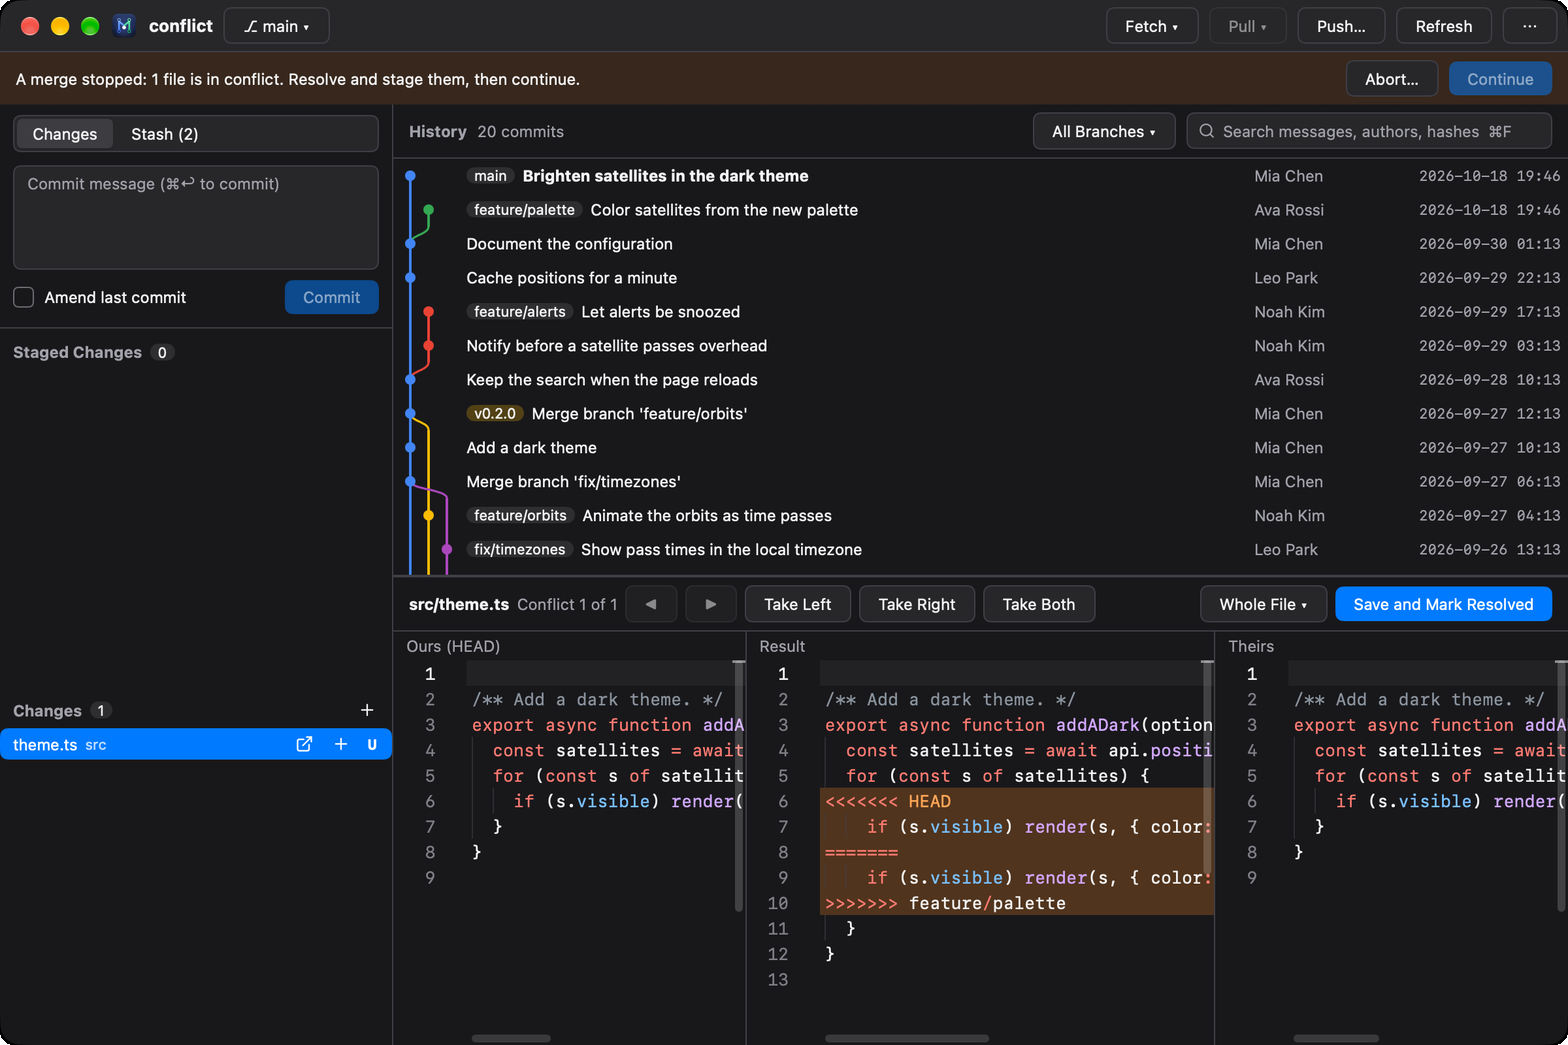
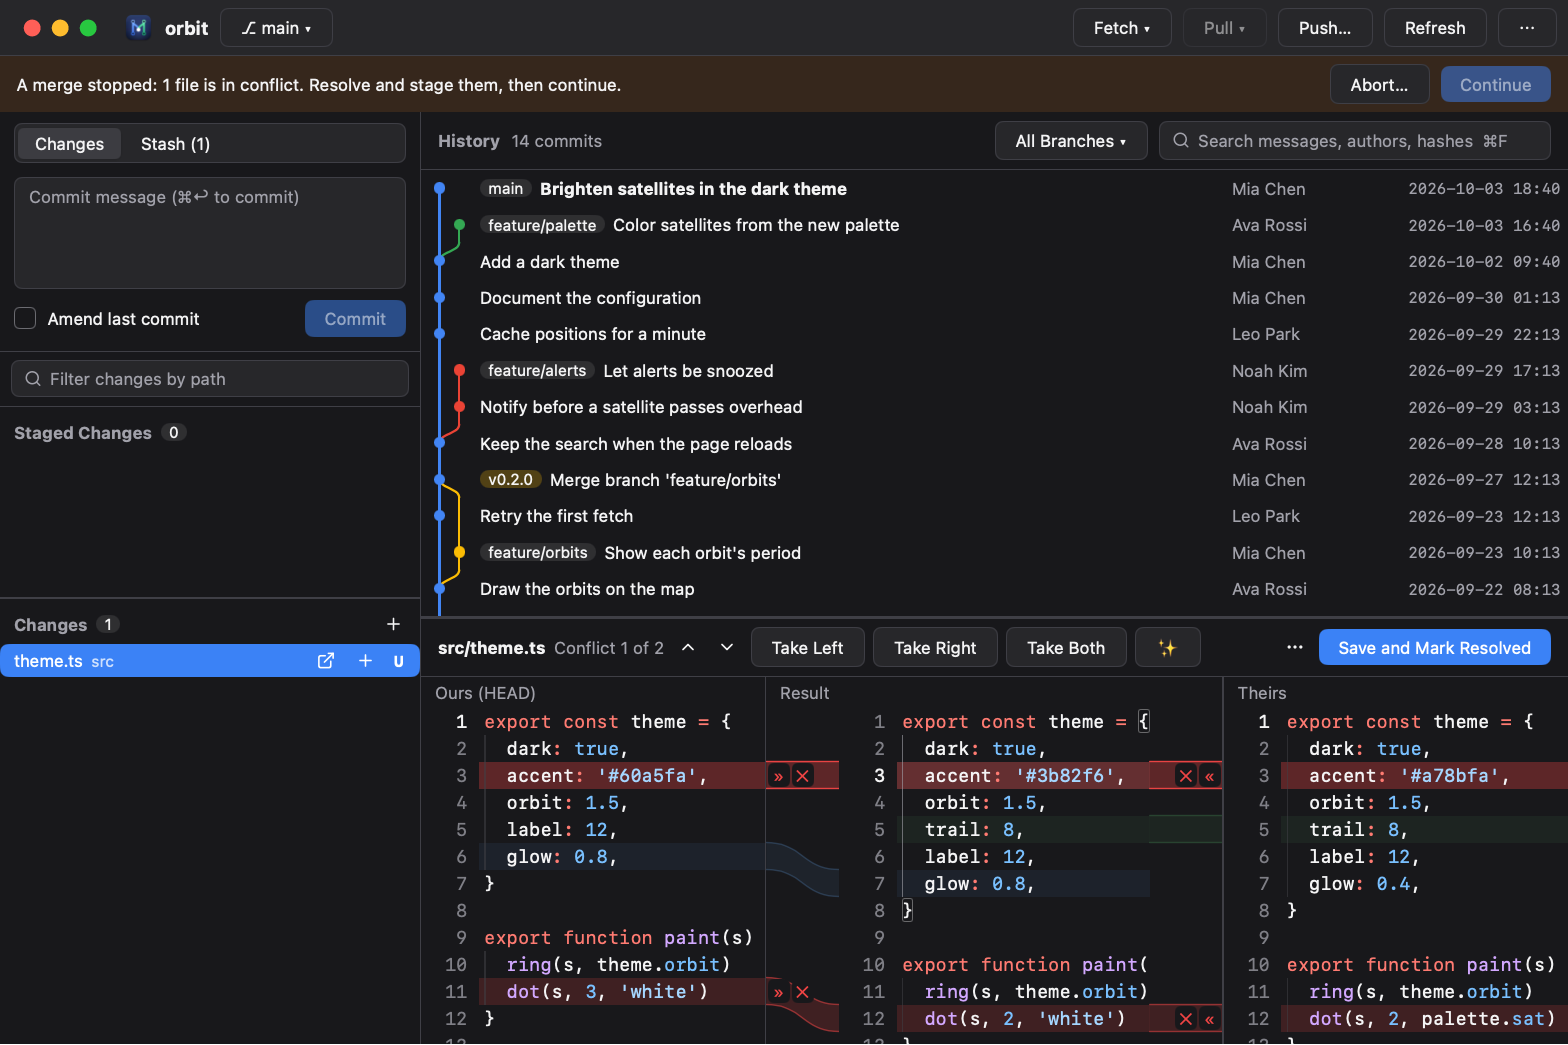
Show the new merge window in the READMEs, and fit its toolbar
The screenshots of the merge window still showed git's conflict
markers. TestDumpMerge now renders them, merge-zh.png and, with
MYGIT_LOCALE=en, merge-en.png, as the other screenshots are sized:
orbit's theme merged with a branch that changed it too, at 1120×746
and 1.4×, the traffic lights macOS draws painted where it puts them.

At that width the toolbar didn't fit: the file's name was squeezed
away, the count of conflicts wrapped and Save and Mark Resolved was cut.
The magic wand is now a ✨ button, its name in its tooltip, Whole File a
⋯ menu, and the name and the count keep their width. The sides no
longer highlight the line of a caret they don't show.

diff --git a/visual_test.go b/visual_test.go
@@ -1,8 +1,10 @@
 package main
 
 import (
+	"image"
 	"image/color"
 	"image/png"
+	"mygit/internal/git"
 	"mygit/internal/helper"
 	"os"
 	"os/exec"
@@ -179,7 +181,15 @@ func TestDumpSSH(t *testing.T) {
 // its history by four people and a change of the working tree.
 func orbitRepo(t *testing.T) string {
 	t.Helper()
-	dir := filepath.Join(t.TempDir(), "orbit")
+	dir, _ := demoRepo(t, "orbit")
+	return dir
+}
+
+// demoRepo makes orbit in a folder named name, and returns it with its
+// git, to go on with.
+func demoRepo(t *testing.T, name string) (string, func(author string, at time.Time, args ...string)) {
+	t.Helper()
+	dir := filepath.Join(t.TempDir(), name)
 	if err := os.Mkdir(dir, 0o755); err != nil {
 		t.Fatal(err)
 	}
@@ -230,7 +240,7 @@ func orbitRepo(t *testing.T) string {
 	commit("Leo Park", day.Add(228*time.Hour), "Cache positions for a minute", map[string]string{"src/cache.ts": "export const ttl = 60_000\n"})
 	commit("Mia Chen", day.Add(231*time.Hour), "Document the configuration", map[string]string{"README.md": "# orbit\n\nTrack satellites as they pass.\n\n## Configuration\n"})
 	write("src/api.ts", "export async function fetchAll(tries = 3) {\n  for (let i = 1; ; i++) {\n    try {\n      return (await fetch('/positions')).json()\n    } catch (e) {\n      if (i === tries) throw e\n    }\n  }\n}\n")
-	return dir
+	return dir, git
 }
 
 // TestDumpWelcome renders the welcome window into MYGIT_DUMP, 520×640 at
@@ -265,4 +275,99 @@ func TestDumpWelcome(t *testing.T) {
 	f, _ := os.Create(out + "/welcome.png")
 	png.Encode(f, tt.Image())
 	f.Close()
+}
+
+// TestDumpMerge renders the merge window into MYGIT_DUMP as the READMEs
+// show it, merge-zh.png, or merge-en.png with MYGIT_LOCALE=en: orbit's
+// theme merged with a branch that changed it too, 1120×746 at 1.4×, the
+// traffic lights macOS draws painted where it draws them.
+func TestDumpMerge(t *testing.T) {
+	out := os.Getenv("MYGIT_DUMP")
+	if out == "" {
+		t.Skip()
+	}
+	lang := "zh"
+	if l := os.Getenv("MYGIT_LOCALE"); l != "" {
+		i18n.SetLocaleFunc(func() string { return l })
+		defer i18n.SetLocaleFunc(func() string { return "zh-Hans" })
+		lang = l
+	}
+	dir, run := demoRepo(t, "orbit")
+	day := time.Date(2026, 10, 2, 9, 40, 0, 0, time.Local)
+	theme := func(accent, trail, glow, draw string) string {
+		return "export const theme = {\n  dark: true,\n  accent: '" + accent + "',\n  orbit: 1.5," + trail +
+			"\n  label: 12,\n  glow: " + glow + ",\n}\n\nexport function paint(s) {\n  ring(s, theme.orbit)\n  " + draw + "\n}\n"
+	}
+	commit := func(author string, at time.Time, msg, text string) {
+		if err := os.WriteFile(filepath.Join(dir, "src/theme.ts"), []byte(text), 0o644); err != nil {
+			t.Fatal(err)
+		}
+		run(author, at, "add", ".")
+		run(author, at, "commit", "-q", "-m", msg)
+	}
+	run("Mia Chen", day, "stash", "-q") // the change of the working tree
+	commit("Mia Chen", day, "Add a dark theme", theme("#3b82f6", "", "0.4", "dot(s, 2, 'white')"))
+	run("Ava Rossi", day.Add(30*time.Hour), "switch", "-q", "-c", "feature/palette")
+	commit("Ava Rossi", day.Add(31*time.Hour), "Color satellites from the new palette",
+		theme("#a78bfa", "\n  trail: 8,", "0.4", "dot(s, 2, palette.sat)"))
+	run("Mia Chen", day.Add(32*time.Hour), "switch", "-q", "main")
+	commit("Mia Chen", day.Add(33*time.Hour), "Brighten satellites in the dark theme", theme("#60a5fa", "", "0.8", "dot(s, 3, 'white')"))
+	cmd := exec.Command("git", "merge", "-q", "feature/palette")
+	cmd.Dir = dir
+	if err := cmd.Run(); err == nil {
+		t.Fatal("merged without a conflict")
+	}
+
+	repo, err := git.Open(dir)
+	if err != nil {
+		t.Fatal(err)
+	}
+	a := newApp(repo)
+	tt := &tester{a: a, queue: make(chan func(), 64)}
+	a.update = func(fn func()) { tt.queue <- fn }
+	tt.Tester = ui.NewTester(a.view, 1120, 746)
+	tt.SetDark(true)
+	tt.SetScale(1.4)
+	tt.SetTitleBar(ui.TitleBar{Left: 80, Height: titleBarHeight})
+	a.start()
+	tt.settle()
+	tt.click(t, "theme.ts")
+	tt.Frame()
+	img := tt.Image()
+	// The traffic lights: 12 points across, 20 apart, from 16 by 13.
+	for i, c := range []color.RGBA{{255, 95, 87, 255}, {254, 188, 46, 255}, {40, 200, 64, 255}} {
+		disc(img, 1.4*float64(23+20*i), 1.4*20, 1.4*6, c)
+	}
+	f, err := os.Create(filepath.Join(out, "merge-"+lang+".png"))
+	if err != nil {
+		t.Fatal(err)
+	}
+	defer f.Close()
+	png.Encode(f, img)
+}
+
+// disc paints a disc of color c centered at x, y with radius r on img,
+// its edge smoothed.
+func disc(img *image.RGBA, x, y, r float64, c color.RGBA) {
+	for py := int(y - r - 1); py <= int(y+r+1); py++ {
+		for px := int(x - r - 1); px <= int(x+r+1); px++ {
+			// How much of the pixel the disc covers, by 4×4 samples.
+			n := 0
+			for sy := range 4 {
+				for sx := range 4 {
+					dx, dy := float64(px)+(float64(sx)+0.5)/4-x, float64(py)+(float64(sy)+0.5)/4-y
+					if dx*dx+dy*dy <= r*r {
+						n++
+					}
+				}
+			}
+			if n == 0 {
+				continue
+			}
+			a := float64(n) / 16
+			bg := img.RGBAAt(px, py)
+			mix := func(f, b uint8) uint8 { return uint8(float64(f)*a + float64(b)*(1-a) + 0.5) }
+			img.SetRGBA(px, py, color.RGBA{mix(c.R, bg.R), mix(c.G, bg.G), mix(c.B, bg.B), 255})
+		}
+	}
 }

diff --git a/merge.go b/merge.go
@@ -77,7 +77,7 @@ func newMerger(path string, t mergeTexts) *merger {
 		if lang != nil {
 			b.SetLanguage(lang)
 		}
-		m.panes[i] = &editor.State{Buffer: b, ReadOnly: i != paneResult, FitContent: true, NoFolding: true}
+		m.panes[i] = &editor.State{Buffer: b, ReadOnly: i != paneResult, NoActiveLine: i != paneResult, FitContent: true, NoFolding: true}
 	}
 	if strings.Contains(t.ours, "\r\n") { // the result's lines end as the file's did
 		m.panes[paneResult].Buffer.SetLineEnding("\r\n")
@@ -345,7 +345,7 @@ func (a *app) mergeView(c *ui.Context, m *merger) {
 	unresolved := m.model.Unresolved()
 	ui.Column(c).Fill().Children(func() {
 		ui.Row(c).Padding(6, 12).Gap(6).AlignItems(ui.Center).BorderWidth(0, 0, 1, 0).BorderColor(t.Border).Children(func() {
-			ui.Text(c, m.path).Bold().SingleLine()
+			ui.Text(c, m.path).Bold().SingleLine().Shrink(0)
 			if unresolved > 0 {
 				n := 0
 				for i := range min(m.cur+1, len(m.model.Chunks)) {
@@ -353,7 +353,7 @@ func (a *app) mergeView(c *ui.Context, m *merger) {
 						n++
 					}
 				}
-				ui.Text(c, loc.ConflictOf(max(n, 1), unresolved)).TextColor(t.TextMuted)
+				ui.Text(c, loc.ConflictOf(max(n, 1), unresolved)).TextColor(t.TextMuted).SingleLine().Shrink(0)
 				if iconButton(c, "up", loc.PrevConflict()+" "+shiftKey("F7")) {
 					m.step(true)
 				}
@@ -369,7 +369,7 @@ func (a *app) mergeView(c *ui.Context, m *merger) {
 				if ui.Button(c, loc.TakeBoth()).Clicked() {
 					m.take(conflict.Ours, conflict.Theirs)
 				}
-				if ui.Button(c, "✨ "+loc.ResolveSimple()).Label(loc.ResolveSimple()).Tooltip(loc.ResolveSimpleHint()).Clicked() {
+				if ui.Button(c, "✨").Label(loc.ResolveSimple()).Tooltip(loc.ResolveSimple() + ": " + loc.ResolveSimpleHint()).Clicked() {
 					m.resolveSimple()
 				}
 			} else {
@@ -379,7 +379,7 @@ func (a *app) mergeView(c *ui.Context, m *merger) {
 				ui.Text(c, m.note).TextColor(t.TextMuted).SingleLine()
 			}
 			ui.Box(c).Grow(1)
-			ui.Button(c, loc.WholeFile()+" ▾").Label(loc.WholeFile()).Menu(func(menu *ui.Menu) {
+			iconMenu(c, "more", loc.WholeFile(), func(menu *ui.Menu) {
 				if menu.Item(loc.TakeAllLeft(left)).Chosen() {
 					a.takeSide(m.path, git.OursStage)
 				}

diff --git a/CHANGELOG.md b/CHANGELOG.md
@@ -8,9 +8,10 @@
 - 三栏按改动对齐、一起滚动：滚任意一栏，另外两栏跟着滚到对应的行；打开时直接停在第一个冲突
 - 改动按 IntelliJ 的配色标出来：冲突红色，修改蓝色，新增绿色，删除灰色（删除的地方画一条线）；左右两栏和结果栏之间用色带连起来，已解决的改动变淡
 - 每处改动旁边有按钮：» / « 把这边的改动放进结果（另一边已经放进去时接在后面，也就是「两者都要」），✕ 忽略这边的改动；顶部的「采用左侧」「采用右侧」「两者都要」作用于当前冲突
-- 新增「✨ 自动解决简单冲突」（IntelliJ 的魔法棒）：两边改的是同一行里不同的单词时（比如一边改了 `call(a, b)` 的 `a`，另一边改了 `b`），把两边的改动都合进结果
+- 新增 ✨ 按钮「自动解决简单冲突」（IntelliJ 的魔法棒）：两边改的是同一行里不同的单词时（比如一边改了 `call(a, b)` 的 `a`，另一边改了 `b`），把两边的改动都合进结果
 - 结果栏可以直接编辑，改动会跟着走；撤销（⌘Z）刚才采用的改动，冲突会重新变回未解决
-- F7 / ⇧F7 在未解决的冲突之间跳转
+- F7 / ⇧F7 在未解决的冲突之间跳转；跳过去时三栏把这处改动的第一行对齐在同一高度
+- 「整个文件」菜单（全部采用左侧/右侧）收进了工具栏右边的 ⋯，窗口窄时工具栏也放得下
 - 保存时保留文件原来的换行符（\r\n 的文件以前会被存成 \n）；还有冲突没解决时会先问一下
 
 ## 0.3.5
